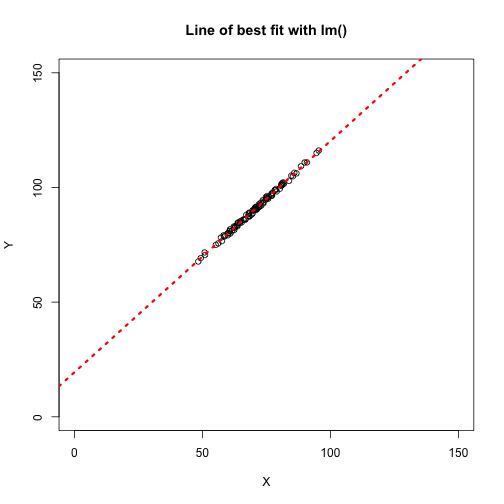
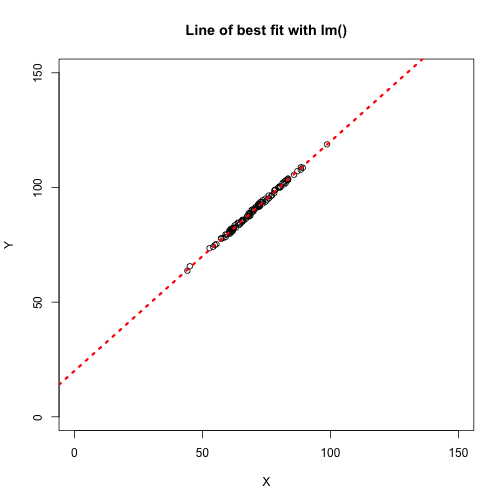
Updated autosizing

diff --git a/r_course/introToR_Day2.html b/r_course/introToR_Day2.html
@@ -1127,13 +1127,13 @@ y &lt;- letters
 }
 </code></pre>
 
-<pre><code>Number 1 in x is 23
+<pre><code>Number 1 in x is 9
 Letter 1 in the alphabet is a
-Number 2 in x is 5
+Number 2 in x is 6
 Letter 2 in the alphabet is b
-Number 3 in x is 18
+Number 3 in x is 22
 Letter 3 in the alphabet is c
-Number 4 in x is 19
+Number 4 in x is 4
 Letter 4 in the alphabet is d
 Number 5 in x is 7
 Letter 5 in the alphabet is e
@@ -1209,7 +1209,7 @@ y &lt;- jitter(x,amount=1)+20
 mean(x)
 </code></pre>
 
-<pre><code>[1] 70.61145
+<pre><code>[1] 69.87458
 </code></pre>
 
 <pre><code class="r">lmExample &lt;- data.frame(X=x,Y=y)
@@ -1227,7 +1227,7 @@ lmResult &lt;- lm(Y~X,data=lmExample)
 abline(lmResult,col=&quot;red&quot;,lty=3,lwd=3)
 </code></pre>
 
[2 lines of base64/hex data omitted]
 
 </div>
 
@@ -1376,7 +1376,7 @@ result
 [1] 100
 
 $DateRun
-[1] &quot;Sun Jan 25 21:44:11 2015&quot;
+[1] &quot;Sun Jan 25 21:48:44 2015&quot;
 </code></pre>
 
 <pre><code class="r">c(class(result$Calculation),class(result$DateRun))

diff --git a/r_course/introToR_Day2.md b/r_course/introToR_Day2.md
@@ -4,6 +4,7 @@ author: Thomas Carroll
 date: 
 css:style.css
 autosize:true
+autosize:true
 Recap -- 
 ========================================================
 
@@ -265,13 +266,13 @@ for(i in 1:length(x)){
 ```
 
 ```
-Number 1 in x is 23
+Number 1 in x is 9
 Letter 1 in the alphabet is a
-Number 2 in x is 5
+Number 2 in x is 6
 Letter 2 in the alphabet is b
-Number 3 in x is 18
+Number 3 in x is 22
 Letter 3 in the alphabet is c
-Number 4 in x is 19
+Number 4 in x is 4
 Letter 4 in the alphabet is d
 Number 5 in x is 7
 Letter 5 in the alphabet is e
@@ -346,7 +347,7 @@ mean(x)
 ```
 
 ```
-[1] 70.61145
+[1] 69.87458
 ```
 
 ```r
@@ -516,7 +517,7 @@ $Calculation
 [1] 100
 
 $DateRun
-[1] "Sun Jan 25 21:44:11 2015"
+[1] "Sun Jan 25 21:48:44 2015"
 ```
 
 ```r
